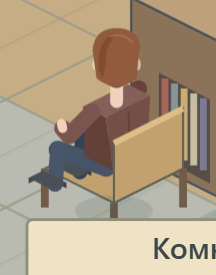
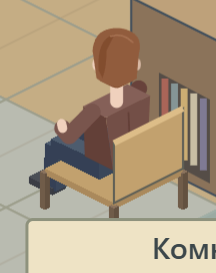
Occlude seated legs behind solid chair surfaces
Keep thighs above the seat and calves beyond its front edge. Use shared solid chair geometry to hide only leg surfaces behind the seat, supports and armrests. Retain visible legs in front. Add independent depth-sampling regressions and actual-scene pixel probes of the support in front of the boot. Silent checks: 62 model/geometry tests, 22 browser blocks and 8 seating blocks.

diff --git a/index.html b/index.html
@@ -1,2 +1,2 @@
 <!doctype html>
-<html lang="ru"><head><meta charset="utf-8"><meta name="viewport" content="width=device-width,initial-scale=1,viewport-fit=cover"><meta name="theme-color" content="#26383d"><title>НРИ / Клуб — Тайкун</title><link rel="icon" href="assets/dice.svg" type="image/svg+xml"><link rel="stylesheet" href="src/ui/studio.css?v=20261020-seating-v2"></head><body><div id="game" aria-busy="true"><main class="boot-error"><h1>Открываем клуб…</h1></main></div><script type="importmap">{"imports":{"./src/data/build-catalog.js":"./src/data/build-catalog.js?v=20261020-seating-v2","./src/data/catalog.js":"./src/data/catalog.js?v=20261020-seating-v2","./src/data/club-adventures.js":"./src/data/club-adventures.js?v=20261020-seating-v2","./src/data/club.js":"./src/data/club.js?v=20261020-seating-v2","./src/data/commerce.js":"./src/data/commerce.js?v=20261020-seating-v2","./src/data/identities.js":"./src/data/identities.js?v=20261020-seating-v2","./src/data/masters-market.js":"./src/data/masters-market.js?v=20261020-seating-v2","./src/data/operations-catalog.js":"./src/data/operations-catalog.js?v=20261020-seating-v2","./src/data/preferences.js":"./src/data/preferences.js?v=20261020-seating-v2","./src/data/systems.js":"./src/data/systems.js?v=20261020-seating-v2","./src/data/visuals.js":"./src/data/visuals.js?v=20261020-seating-v2","./src/model/assessment.js":"./src/model/assessment.js?v=20261020-seating-v2","./src/model/camera.js":"./src/model/camera.js?v=20261020-seating-v2","./src/model/campaign-construction.js":"./src/model/campaign-construction.js?v=20261020-seating-v2","./src/model/campaign-layout.js":"./src/model/campaign-layout.js?v=20261020-seating-v2","./src/model/campaign-rating.js":"./src/model/campaign-rating.js?v=20261020-seating-v2","./src/model/campaign-view.js":"./src/model/campaign-view.js?v=20261020-seating-v2","./src/model/campaign.js":"./src/model/campaign.js?v=20261020-seating-v2","./src/model/club.js":"./src/model/club.js?v=20261020-seating-v2","./src/model/construction.js":"./src/model/construction.js?v=20261020-seating-v2","./src/model/drag-geometry.js":"./src/model/drag-geometry.js?v=20261020-seating-v2","./src/model/event-clock.js":"./src/model/event-clock.js?v=20261020-seating-v2","./src/model/finance-breakdown.js":"./src/model/finance-breakdown.js?v=20261020-seating-v2","./src/model/finances.js":"./src/model/finances.js?v=20261020-seating-v2","./src/model/generator.js":"./src/model/generator.js?v=20261020-seating-v2","./src/model/guest-waiting.js":"./src/model/guest-waiting.js?v=20261020-seating-v2","./src/model/guests-history.js":"./src/model/guests-history.js?v=20261020-seating-v2","./src/model/inventory.js":"./src/model/inventory.js?v=20261020-seating-v2","./src/model/kit-lifecycle.js":"./src/model/kit-lifecycle.js?v=20261020-seating-v2","./src/model/layout-club.js":"./src/model/layout-club.js?v=20261020-seating-v2","./src/model/layout.js":"./src/model/layout.js?v=20261020-seating-v2","./src/model/lifecycle.js":"./src/model/lifecycle.js?v=20261020-seating-v2","./src/model/operations.js":"./src/model/operations.js?v=20261020-seating-v2","./src/model/preferences.js":"./src/model/preferences.js?v=20261020-seating-v2","./src/model/puppet.js":"./src/model/puppet.js?v=20261020-seating-v2","./src/model/rating.js":"./src/model/rating.js?v=20261020-seating-v2","./src/model/reception-area.js":"./src/model/reception-area.js?v=20261020-seating-v2","./src/model/reception.js":"./src/model/reception.js?v=20261020-seating-v2","./src/model/search.js":"./src/model/search.js?v=20261020-seating-v2","./src/model/service-staff.js":"./src/model/service-staff.js?v=20261020-seating-v2","./src/model/solvency.js":"./src/model/solvency.js?v=20261020-seating-v2","./src/model/staff-room.js":"./src/model/staff-room.js?v=20261020-seating-v2","./src/model/studio-building.js":"./src/model/studio-building.js?v=20261020-seating-v2","./src/model/upgrades.js":"./src/model/upgrades.js?v=20261020-seating-v2","./src/ui/app.js":"./src/ui/app.js?v=20261020-seating-v2","./src/ui/avatar-drag.js":"./src/ui/avatar-drag.js?v=20261020-seating-v2","./src/ui/build-mode.js":"./src/ui/build-mode.js?v=20261020-seating-v2","./src/ui/campaign-ui.js":"./src/ui/campaign-ui.js?v=20261020-seating-v2","./src/ui/character-clothes.js":"./src/ui/character-clothes.js?v=20261020-seating-v2","./src/ui/character-head.js":"./src/ui/character-head.js?v=20261020-seating-v2","./src/ui/game.js":"./src/ui/game.js?v=20261020-seating-v2","./src/ui/graphic-portrait.js":"./src/ui/graphic-portrait.js?v=20261020-seating-v2","./src/ui/guest-history-ui.js":"./src/ui/guest-history-ui.js?v=20261020-seating-v2","./src/ui/information.js":"./src/ui/information.js?v=20261020-seating-v2","./src/ui/layout-map.js":"./src/ui/layout-map.js?v=20261020-seating-v2","./src/ui/layout-projection.js":"./src/ui/layout-projection.js?v=20261020-seating-v2","./src/ui/map-labels.js":"./src/ui/map-labels.js?v=20261020-seating-v2","./src/ui/map-room-strip.js":"./src/ui/map-room-strip.js?v=20261020-seating-v2","./src/ui/map.js":"./src/ui/map.js?v=20261020-seating-v2","./src/ui/operations-ui.js":"./src/ui/operations-ui.js?v=20261020-seating-v2","./src/ui/people.js":"./src/ui/people.js?v=20261020-seating-v2","./src/ui/portrait.js":"./src/ui/portrait.js?v=20261020-seating-v2","./src/ui/reviews.js":"./src/ui/reviews.js?v=20261020-seating-v2","./src/ui/save-files.js":"./src/ui/save-files.js?v=20261020-seating-v2","./src/ui/save-store.js":"./src/ui/save-store.js?v=20261020-seating-v2","./src/ui/scene-geometry.js":"./src/ui/scene-geometry.js?v=20261020-seating-v2","./src/ui/seat-frame.js":"./src/ui/seat-frame.js?v=20261020-seating-v2","./src/ui/seated-person.js":"./src/ui/seated-person.js?v=20261020-seating-v2","./src/ui/studio.js":"./src/ui/studio.js?v=20261020-seating-v2","./src/ui/world.js":"./src/ui/world.js?v=20261020-seating-v2"}}</script><script type="module" src="src/ui/app.js?v=20261020-seating-v2"></script></body></html>
+<html lang="ru"><head><meta charset="utf-8"><meta name="viewport" content="width=device-width,initial-scale=1,viewport-fit=cover"><meta name="theme-color" content="#26383d"><title>НРИ / Клуб — Тайкун</title><link rel="icon" href="assets/dice.svg" type="image/svg+xml"><link rel="stylesheet" href="src/ui/studio.css?v=20261020-seat-occlusion-v3"></head><body><div id="game" aria-busy="true"><main class="boot-error"><h1>Открываем клуб…</h1></main></div><script type="importmap">{"imports":{"./src/data/build-catalog.js":"./src/data/build-catalog.js?v=20261020-seat-occlusion-v3","./src/data/catalog.js":"./src/data/catalog.js?v=20261020-seat-occlusion-v3","./src/data/club-adventures.js":"./src/data/club-adventures.js?v=20261020-seat-occlusion-v3","./src/data/club.js":"./src/data/club.js?v=20261020-seat-occlusion-v3","./src/data/commerce.js":"./src/data/commerce.js?v=20261020-seat-occlusion-v3","./src/data/identities.js":"./src/data/identities.js?v=20261020-seat-occlusion-v3","./src/data/masters-market.js":"./src/data/masters-market.js?v=20261020-seat-occlusion-v3","./src/data/operations-catalog.js":"./src/data/operations-catalog.js?v=20261020-seat-occlusion-v3","./src/data/preferences.js":"./src/data/preferences.js?v=20261020-seat-occlusion-v3","./src/data/systems.js":"./src/data/systems.js?v=20261020-seat-occlusion-v3","./src/data/visuals.js":"./src/data/visuals.js?v=20261020-seat-occlusion-v3","./src/model/assessment.js":"./src/model/assessment.js?v=20261020-seat-occlusion-v3","./src/model/camera.js":"./src/model/camera.js?v=20261020-seat-occlusion-v3","./src/model/campaign-construction.js":"./src/model/campaign-construction.js?v=20261020-seat-occlusion-v3","./src/model/campaign-layout.js":"./src/model/campaign-layout.js?v=20261020-seat-occlusion-v3","./src/model/campaign-rating.js":"./src/model/campaign-rating.js?v=20261020-seat-occlusion-v3","./src/model/campaign-view.js":"./src/model/campaign-view.js?v=20261020-seat-occlusion-v3","./src/model/campaign.js":"./src/model/campaign.js?v=20261020-seat-occlusion-v3","./src/model/club.js":"./src/model/club.js?v=20261020-seat-occlusion-v3","./src/model/construction.js":"./src/model/construction.js?v=20261020-seat-occlusion-v3","./src/model/drag-geometry.js":"./src/model/drag-geometry.js?v=20261020-seat-occlusion-v3","./src/model/event-clock.js":"./src/model/event-clock.js?v=20261020-seat-occlusion-v3","./src/model/finance-breakdown.js":"./src/model/finance-breakdown.js?v=20261020-seat-occlusion-v3","./src/model/finances.js":"./src/model/finances.js?v=20261020-seat-occlusion-v3","./src/model/generator.js":"./src/model/generator.js?v=20261020-seat-occlusion-v3","./src/model/guest-waiting.js":"./src/model/guest-waiting.js?v=20261020-seat-occlusion-v3","./src/model/guests-history.js":"./src/model/guests-history.js?v=20261020-seat-occlusion-v3","./src/model/inventory.js":"./src/model/inventory.js?v=20261020-seat-occlusion-v3","./src/model/kit-lifecycle.js":"./src/model/kit-lifecycle.js?v=20261020-seat-occlusion-v3","./src/model/layout-club.js":"./src/model/layout-club.js?v=20261020-seat-occlusion-v3","./src/model/layout.js":"./src/model/layout.js?v=20261020-seat-occlusion-v3","./src/model/lifecycle.js":"./src/model/lifecycle.js?v=20261020-seat-occlusion-v3","./src/model/operations.js":"./src/model/operations.js?v=20261020-seat-occlusion-v3","./src/model/preferences.js":"./src/model/preferences.js?v=20261020-seat-occlusion-v3","./src/model/puppet.js":"./src/model/puppet.js?v=20261020-seat-occlusion-v3","./src/model/rating.js":"./src/model/rating.js?v=20261020-seat-occlusion-v3","./src/model/reception-area.js":"./src/model/reception-area.js?v=20261020-seat-occlusion-v3","./src/model/reception.js":"./src/model/reception.js?v=20261020-seat-occlusion-v3","./src/model/search.js":"./src/model/search.js?v=20261020-seat-occlusion-v3","./src/model/service-staff.js":"./src/model/service-staff.js?v=20261020-seat-occlusion-v3","./src/model/solvency.js":"./src/model/solvency.js?v=20261020-seat-occlusion-v3","./src/model/staff-room.js":"./src/model/staff-room.js?v=20261020-seat-occlusion-v3","./src/model/studio-building.js":"./src/model/studio-building.js?v=20261020-seat-occlusion-v3","./src/model/upgrades.js":"./src/model/upgrades.js?v=20261020-seat-occlusion-v3","./src/ui/app.js":"./src/ui/app.js?v=20261020-seat-occlusion-v3","./src/ui/avatar-drag.js":"./src/ui/avatar-drag.js?v=20261020-seat-occlusion-v3","./src/ui/build-mode.js":"./src/ui/build-mode.js?v=20261020-seat-occlusion-v3","./src/ui/campaign-ui.js":"./src/ui/campaign-ui.js?v=20261020-seat-occlusion-v3","./src/ui/character-clothes.js":"./src/ui/character-clothes.js?v=20261020-seat-occlusion-v3","./src/ui/character-head.js":"./src/ui/character-head.js?v=20261020-seat-occlusion-v3","./src/ui/game.js":"./src/ui/game.js?v=20261020-seat-occlusion-v3","./src/ui/graphic-portrait.js":"./src/ui/graphic-portrait.js?v=20261020-seat-occlusion-v3","./src/ui/guest-history-ui.js":"./src/ui/guest-history-ui.js?v=20261020-seat-occlusion-v3","./src/ui/information.js":"./src/ui/information.js?v=20261020-seat-occlusion-v3","./src/ui/isometric-solids.js":"./src/ui/isometric-solids.js?v=20261020-seat-occlusion-v3","./src/ui/layout-map.js":"./src/ui/layout-map.js?v=20261020-seat-occlusion-v3","./src/ui/layout-projection.js":"./src/ui/layout-projection.js?v=20261020-seat-occlusion-v3","./src/ui/map-labels.js":"./src/ui/map-labels.js?v=20261020-seat-occlusion-v3","./src/ui/map-room-strip.js":"./src/ui/map-room-strip.js?v=20261020-seat-occlusion-v3","./src/ui/map.js":"./src/ui/map.js?v=20261020-seat-occlusion-v3","./src/ui/operations-ui.js":"./src/ui/operations-ui.js?v=20261020-seat-occlusion-v3","./src/ui/people.js":"./src/ui/people.js?v=20261020-seat-occlusion-v3","./src/ui/portrait.js":"./src/ui/portrait.js?v=20261020-seat-occlusion-v3","./src/ui/reviews.js":"./src/ui/reviews.js?v=20261020-seat-occlusion-v3","./src/ui/save-files.js":"./src/ui/save-files.js?v=20261020-seat-occlusion-v3","./src/ui/save-store.js":"./src/ui/save-store.js?v=20261020-seat-occlusion-v3","./src/ui/scene-geometry.js":"./src/ui/scene-geometry.js?v=20261020-seat-occlusion-v3","./src/ui/seat-frame.js":"./src/ui/seat-frame.js?v=20261020-seat-occlusion-v3","./src/ui/seat-solids.js":"./src/ui/seat-solids.js?v=20261020-seat-occlusion-v3","./src/ui/seated-person.js":"./src/ui/seated-person.js?v=20261020-seat-occlusion-v3","./src/ui/studio.js":"./src/ui/studio.js?v=20261020-seat-occlusion-v3","./src/ui/world.js":"./src/ui/world.js?v=20261020-seat-occlusion-v3"}}</script><script type="module" src="src/ui/app.js?v=20261020-seat-occlusion-v3"></script></body></html>

diff --git a/src/ui/world.js b/src/ui/world.js
@@ -7,6 +7,8 @@ import {receptionStatus} from '../model/reception-area.js';
 import {personArt,ADMINISTRATOR,escapeHTML as esc} from './people.js';
 import {seatFrame,SEAT_HEIGHT,project,unproject} from './seat-frame.js';
 import {seatedPersonArt} from './seated-person.js';
+import {solidArt} from './isometric-solids.js';
+import {chairBaseFaces} from './seat-solids.js';
 export {project,unproject,seatedPersonArt};
 
 
@@ -20,12 +22,10 @@ function box(x,y,w,h,height,top,side='#ac8b65'){
 }
 function chairParts(o){
  const cells=objectCells(o),w=Math.max(...cells.map(c=>c.x))-o.x+1,h=Math.max(...cells.map(c=>c.y))-o.y+1,cushioned=/Soft|Arms|Sofa|sofa/.test(o.kind),color=cushioned?'#66808a':'#c2a16e';
- const corners=diamond(o.x+.18,o.y+.18,w-.36,h-.36,SEAT_HEIGHT),ground=diamond(o.x+.18,o.y+.18,w-.36,h-.36,0);
- let base='';for(let i=0;i<4;i++)base+='<path d="M'+ground[i].x+' '+ground[i].y+'L'+corners[i].x+' '+corners[i].y+'" stroke="#705c4a" stroke-width="2.6"/>';
- base+=polygon(corners,color,'#5e665c');
+ const corners=diamond(o.x+.18,o.y+.18,w-.36,h-.36,SEAT_HEIGHT);
+ const center=project(o.x+w/2,o.y+h/2);let base='<g class="chair-base" transform="translate('+center.x+' '+center.y+')">'+solidArt(chairBaseFaces(w,h,o.kind,o.rotation))+'</g>';
  const index=seatFrame(o.rotation).backEdge,edges=[corners[index],corners[(index+1)%4]],top=[{x:edges[0].x,y:edges[0].y-20},{x:edges[1].x,y:edges[1].y-20}];
  const back=polygon([edges[0],top[0],top[1],edges[1]],color,'#5f6057')+'<path d="M'+top[0].x+' '+top[0].y+'L'+top[1].x+' '+top[1].y+'" stroke="'+(cushioned?'#91a39e':'#ddbd88')+'" stroke-width="2"/>';
- if(o.kind==='chairArms')for(const i of [(o.rotation+3)%4,(o.rotation+1)%4]){const a=corners[i],b=corners[(i+1)%4];base+='<path d="M'+a.x+' '+a.y+'v-7L'+b.x+' '+(b.y-7)+'V'+b.y+'" fill="none" stroke="#566b70" stroke-width="3"/>';}
  if(w*h>1)for(let i=1;i<Math.max(w,h);i++){const q=project(o.x+(w>h?i:.5),o.y+(h>w?i:.5),14);base+='<path d="M'+(q.x-7)+' '+q.y+'l14 7" stroke="#91a69d" stroke-width="1.2"/>';}
  return {base,back,front:seatFrame(o.rotation).backNear};
 }
@@ -138,8 +138,8 @@ export function createWorld(host,callbacks={}){
    for(const m of club.staff){const seat=staffSeatForMaster(club,m.id);if(!club.rooms.some(r=>r.status==='running'&&r.masterId===m.id)&&seat?.objectId===object.id)people.push({person:m,master:true,x:seat.x+.5,y:seat.y+.5});}
    if(people.length)art=furnitureArt(object,layout,{selected:state.objectId===object.id,occupied:true});
    for(const actor of people){const back=seatFrame(object.rotation).backNear;
-    Object.assign(actor,{key:(actor.master?'m:':'g:')+actor.person.id,seated:true,back,scale:1,walkScale:.62,z:0,seatRotation:object.rotation,target:object});actors.push(actor);const p=project(actor.x,actor.y,actor.z??0);
-    art+='<g data-actor="'+esc(actor.key)+'" data-seat-object="'+esc(object.id)+'" class="map-person '+(room?.status==='running'?'playing':'')+'" '+(actor.master?'data-master-id="':'data-guest-id="')+esc(actor.person.id)+'" transform="translate('+p.x+' '+p.y+') scale(1)"><title>'+esc(actor.person.profile?.name??actor.person.name)+'</title>'+seatedPersonArt(actor.person,{rotation:actor.seatRotation})+'</g>';
+    Object.assign(actor,{key:(actor.master?'m:':'g:')+actor.person.id,seated:true,back,scale:1,walkScale:.62,z:0,seatRotation:object.rotation,seatOptions:{rotation:object.rotation,kind:object.kind,width:Math.max(...cells.map(c=>c.x))-object.x+1,height:Math.max(...cells.map(c=>c.y))-object.y+1,offsetX:object.x+(Math.max(...cells.map(c=>c.x))-object.x+1)/2-actor.x,offsetY:object.y+(Math.max(...cells.map(c=>c.y))-object.y+1)/2-actor.y},target:object});actors.push(actor);const p=project(actor.x,actor.y,actor.z??0);
+    art+='<g data-actor="'+esc(actor.key)+'" data-seat-object="'+esc(object.id)+'" class="map-person '+(room?.status==='running'?'playing':'')+'" '+(actor.master?'data-master-id="':'data-guest-id="')+esc(actor.person.id)+'" transform="translate('+p.x+' '+p.y+') scale(1)"><title>'+esc(actor.person.profile?.name??actor.person.name)+'</title>'+seatedPersonArt(actor.person,actor.seatOptions)+'</g>';
    }
    if(people.length)art+=seatForeground(object);
    if(spec.family==='chair'&&object.role==='guest'&&!guest&&room?.status!=='running'){const p=project(object.x+.5,object.y+.5,19);art+='<g data-seat="'+esc(object.id)+'" class="empty-seat"><circle cx="'+p.x+'" cy="'+p.y+'" r="7" fill="#f4e9cc" stroke="#a28c64"/><path d="M'+(p.x-3)+' '+p.y+'h6M'+p.x+' '+(p.y-3)+'v6" stroke="#9a805c"/></g>';}
@@ -172,7 +172,7 @@ export function createWorld(host,callbacks={}){
   for(const key of positions.keys())if(!keys.has(key)){positions.delete(key);motions.delete(key);}
   function frame(time){for(const [key,motion]of motions){const node=scene.querySelector('[data-actor="'+CSS.escape(key)+'"]');if(!node){motions.delete(key);continue;}
     const t=Math.max(0,Math.min(1,(time-motion.start)/motion.duration)),actor=motion.actor;
-    if(t>=1){const p=project(actor.x,actor.y,actor.z??0);node.innerHTML=actor.seated&&actor.seatRotation!==undefined?seatedPersonArt(actor.person,{rotation:actor.seatRotation}):personArt(actor.person,{seated:actor.seated,back:actor.back});node.setAttribute('transform','translate('+p.x+' '+p.y+') scale('+actor.scale+')');node.classList.remove('is-walking');delete node.dataset.walking;motions.delete(key);continue;}
+    if(t>=1){const p=project(actor.x,actor.y,actor.z??0);node.innerHTML=actor.seated&&actor.seatRotation!==undefined?seatedPersonArt(actor.person,actor.seatOptions):personArt(actor.person,{seated:actor.seated,back:actor.back});node.setAttribute('transform','translate('+p.x+' '+p.y+') scale('+actor.scale+')');node.classList.remove('is-walking');delete node.dataset.walking;motions.delete(key);continue;}
     if(!node.dataset.walking){node.innerHTML=personArt(actor.person,{drag:true});node.dataset.walking='true';node.classList.add('is-walking');}
     const n=t*(motion.path.length-1),a=motion.path[Math.floor(n)],b=motion.path[Math.min(motion.path.length-1,Math.floor(n)+1)],k=n-Math.floor(n),p=project(a.x+(b.x-a.x)*k,a.y+(b.y-a.y)*k);
     node.setAttribute('transform','translate('+p.x+' '+(p.y-Math.sin(t*Math.PI*14)*.8)+') scale('+(actor.walkScale??actor.scale)+')');

diff --git a/src/ui/seated-person.js b/src/ui/seated-person.js
@@ -1,18 +1,29 @@
 import {seatFrame,SEAT_HEIGHT} from './seat-frame.js';
 import {personArt} from './people.js';
+import {prismFaces,solidArt} from './isometric-solids.js';
+import {chairBaseFaces} from './seat-solids.js';
 const paint=(value,fallback)=>/^#[\da-f]{6}$/i.test(value??'')?value:fallback;
 const shade=(hex,n)=>'#'+[1,3,5].map(i=>Math.max(0,Math.min(255,parseInt(hex.slice(i,i+2),16)+n)).toString(16).padStart(2,'0')).join('');
 const points=ps=>ps.map(p=>p.x+','+p.y).join(' ');
 const polygon=(ps,fill)=>'<polygon points="'+points(ps)+'" fill="'+fill+'"/>';
 const stroke=(ps,color,width)=>'<polyline points="'+points(ps)+'" fill="none" stroke="'+color+'" stroke-width="'+width+'" stroke-linecap="round" stroke-linejoin="round"/>';
 
-export function seatedPersonArt(person,{rotation=0}={}){
+export function seatedLegFaces(rotation=0,pants='#40515c',shoes='#303b42'){
+ const frame=seatFrame(rotation),faces=[];
+ const prism=(coords,colors,part)=>faces.push(...prismFaces(coords.map(v=>frame.world(...v)),colors,part));
+ for(const side of [-1,1]){
+  const u=side*.115,name=side<0?'left':'right',legColors=[shade(pants,-20),shade(pants,-12),pants,shade(pants,-8),shade(pants,-18),shade(pants,8)];
+  // Both ends of the thigh remain above the seat. The calf starts beyond
+  // the seat's front edge, so its bend cannot pass through the solid seat.
+  prism([[u-.065,-.045,SEAT_HEIGHT+.3],[u+.065,-.045,SEAT_HEIGHT+.3],[u+.065,.405,SEAT_HEIGHT+.3],[u-.065,.405,SEAT_HEIGHT+.3],[u-.065,-.045,SEAT_HEIGHT+6.3],[u+.065,-.045,SEAT_HEIGHT+6.3],[u+.065,.405,SEAT_HEIGHT+5.8],[u-.065,.405,SEAT_HEIGHT+5.8]],legColors,'thigh-'+name);
+  prism([[u-.055,.37,1.6],[u+.055,.37,1.6],[u+.055,.49,1.6],[u-.055,.49,1.6],[u-.055,.345,16.1],[u+.055,.345,16.1],[u+.055,.465,16.1],[u-.055,.465,16.1]],legColors,'calf-'+name);
+  prism([[u-.065,.39,.3],[u+.065,.39,.3],[u+.065,.61,.3],[u-.065,.61,.3],[u-.065,.39,2.5],[u+.065,.39,2.5],[u+.065,.61,2.5],[u-.065,.61,2.5]],[shoes,shade(shoes,-9),shoes,shoes,shade(shoes,-7),shade(shoes,11)],'shoe-'+name);
+ }return faces;
+}
+
+export function seatedPersonArt(person,{rotation=0,kind='chair',width=1,height=1,offsetX=0,offsetY=0}={}){
  const identity=person?.identity??person??{},look=identity.portrait??{},frame=seatFrame(rotation),P=frame.point,coat=paint(look.coat,'#6c7e80'),pants=paint(look.trousers,'#40515c'),shoes=paint(look.shoes,'#303b42'),skin=paint(look.skin,'#e3b79e'),accent=paint(look.accent,'#d8cab2');
- const rightNear=frame.right[0]+frame.right[1]>0,nearSide=rightNear?1:-1,leg=side=>{
-  const u=side*.115,hip=P(u,-.045,SEAT_HEIGHT+3.2),knee=P(u,.405,SEAT_HEIGHT+1),ankle=P(u,.43,2.1),front=side===nearSide;
-  const top=[P(u-.065,.39,2.1),P(u+.065,.39,2.1),P(u+.065,.61,2.1),P(u-.065,.61,2.1)],bottom=[P(u-.065,.39,.3),P(u+.065,.39,.3),P(u+.065,.61,.3),P(u-.065,.61,.3)];
-  return '<g class="seated-leg" data-leg="'+(side<0?'left':'right')+'">'+stroke([hip,knee],front?pants:shade(pants,-13),6.1)+stroke([knee,ankle],front?shade(pants,3):shade(pants,-16),5.1)+polygon([top[1],top[2],bottom[2],bottom[1]],shade(shoes,-7))+polygon([top[2],top[3],bottom[3],bottom[2]],shoes)+polygon(top,shade(shoes,11))+'</g>';
- };
+ const rightNear=frame.right[0]+frame.right[1]>0,nearSide=rightNear?1:-1,chair=chairBaseFaces(width,height,kind,rotation).map(f=>({...f,points:f.points.map(p=>({...p,x:p.x+offsetX,y:p.y+offsetY}))})),legs='<g class="seated-legs" data-chair-occlusion="solid-depth">'+solidArt(seatedLegFaces(rotation,pants,shoes),chair)+'</g>';
  const arm=side=>{
   const shoulder=P(side*.215,-.015,36),elbow=P(side*.265,.15,26),wrist=P(side*.185,.29,24.5),hand=P(side*.145,.34,24.5);
   return '<g class="seated-arm">'+stroke([shoulder,elbow,wrist],side===nearSide?coat:shade(coat,-18),5.6)+stroke([wrist,hand],skin,3.1)+'</g>';
@@ -28,5 +39,5 @@ export function seatedPersonArt(person,{rotation=0}={}){
  }
  const neck=stroke([P(0,-.025,35.8),P(0,-.025,42.5)],skin,4.3),head=P(0,-.025,49.5);
  const headArt='<g class="seated-head" data-head-view="'+(frame.backNear?'back':'three-quarter')+'" transform="translate('+head.x+' '+head.y+') scale('+(frame.headMirror*.67)+' .67)">'+personArt(person,{seated:true,headOnly:true,back:frame.backNear,yaw:1})+'</g>';
- return '<g class="seated-miniature" data-seat-facing="'+frame.direction+'" stroke-linecap="round" stroke-linejoin="round"><ellipse cy="1" rx="13" ry="5" fill="#243b38" opacity=".12"/>'+leg(-nearSide)+leg(nearSide)+arm(-nearSide)+torso+neck+arm(nearSide)+headArt+'</g>';
+ return '<g class="seated-miniature" data-seat-facing="'+frame.direction+'" stroke-linecap="round" stroke-linejoin="round">'+legs+arm(-nearSide)+torso+neck+arm(nearSide)+headArt+'</g>';
 }

diff --git a/src/ui/isometric-solids.js b/src/ui/isometric-solids.js
@@ -1,0 +1,36 @@
+import {project} from './seat-frame.js';
+const EPS=1e-7;
+const area=p=>p.reduce((s,a,i)=>{const b=p[(i+1)%p.length];return s+a.x*b.y-a.y*b.x;},0)/2;
+const bounds=p=>({left:Math.min(...p.map(v=>v.x)),right:Math.max(...p.map(v=>v.x)),top:Math.min(...p.map(v=>v.y)),bottom:Math.max(...p.map(v=>v.y))});
+function clip(p,value){
+ const result=[];for(let i=0;i<p.length;i++){const a=p[i],b=p[(i+1)%p.length],da=value(a),db=value(b);if(da>=-EPS)result.push(a);if((da>EPS&&db<-EPS)||(da<-EPS&&db>EPS)){const t=da/(da-db);result.push({x:a.x+(b.x-a.x)*t,y:a.y+(b.y-a.y)*t});}}return result;
+}
+function subtract(subject,occluder){
+ let inside=subject;const visible=[],sign=Math.sign(area(occluder));
+ for(let i=0;i<occluder.length&&inside.length>=3;i++){const a=occluder[i],b=occluder[(i+1)%occluder.length],distance=p=>sign*((b.x-a.x)*(p.y-a.y)-(b.y-a.y)*(p.x-a.x)),outside=clip(inside,p=>-distance(p));if(outside.length>=3&&Math.abs(area(outside))>EPS)visible.push(outside);inside=clip(inside,distance);}
+ return visible;
+}
+function projected(face){
+ const p=face.points.map(v=>({...project(v.x,v.y,v.z),depth:v.x+v.y}));if(Math.abs(area(p))<EPS)return null;
+ const [a,b,c]=p,det=(b.x-a.x)*(c.y-a.y)-(c.x-a.x)*(b.y-a.y),dx=((b.depth-a.depth)*(c.y-a.y)-(c.depth-a.depth)*(b.y-a.y))/det,dy=((b.x-a.x)*(c.depth-a.depth)-(c.x-a.x)*(b.depth-a.depth))/det;
+ return {...face,p,bounds:bounds(p),depth:v=>a.depth+dx*(v.x-a.x)+dy*(v.y-a.y)};
+}
+// Cut each face only where another solid is closer along the same view ray.
+// This preserves a leg in front of a chair, while hiding it behind a support.
+export function visibleSolidFaces(faces,occluders=[]){
+ const own=faces.map(projected).filter(Boolean),all=[...own,...occluders.map(projected).filter(Boolean)],result=[];
+ for(const face of own){let parts=[face.p];for(const other of all){if(other===face||other.bounds.left>face.bounds.right||other.bounds.right<face.bounds.left||other.bounds.top>face.bounds.bottom||other.bounds.bottom<face.bounds.top)continue;
+   const cover=clip(other.p,p=>other.depth(p)-face.depth(p)-1e-5);if(cover.length<3||Math.abs(area(cover))<EPS)continue;parts=parts.flatMap(p=>subtract(p,cover));if(!parts.length)break;
+  }for(const points of parts)result.push({points,fill:face.fill,part:face.part});
+ }return result;
+}
+export function solidArt(faces,occluders=[]){
+ const groups=new Map();for(const f of visibleSolidFaces(faces,occluders)){const key=f.part+f.fill,group=groups.get(key)??{part:f.part,fill:f.fill,paths:[]};group.paths.push('M'+f.points.map(p=>p.x.toFixed(5)+','+p.y.toFixed(5)).join('L')+'Z');groups.set(key,group);}
+ return [...groups.values()].map(g=>'<path'+(g.part?' data-solid-part="'+g.part+'"':'')+' d="'+g.paths.join('')+'" fill="'+g.fill+'" shape-rendering="crispEdges"/>').join('');
+}
+export function prismFaces(vertices,colors,part=''){
+ return [[0,3,2,1],[0,1,5,4],[1,2,6,5],[2,3,7,6],[3,0,4,7],[4,5,6,7]].map((indices,i)=>({points:indices.map(n=>vertices[n]),fill:colors[i]??colors[0],part}));
+}
+export function boxFaces(x0,y0,z0,x1,y1,z1,colors,part=''){
+ return prismFaces([[x0,y0,z0],[x1,y0,z0],[x1,y1,z0],[x0,y1,z0],[x0,y0,z1],[x1,y0,z1],[x1,y1,z1],[x0,y1,z1]].map(([x,y,z])=>({x,y,z})),colors,part);
+}

diff --git a/src/ui/seat-solids.js b/src/ui/seat-solids.js
@@ -1,0 +1,13 @@
+import {SEAT_HEIGHT,seatFrame} from './seat-frame.js';
+import {boxFaces,prismFaces} from './isometric-solids.js';
+export function chairBaseFaces(width=1,height=1,kind='chair',rotation=0){
+ const x0=-width/2+.18,x1=width/2-.18,y0=-height/2+.18,y1=height/2-.18,cushioned=/Soft|Arms|Sofa|sofa/.test(kind),top=cushioned?'#66808a':'#c2a16e',side=cushioned?'#536b74':'#aa895b';
+ const faces=boxFaces(x0,y0,SEAT_HEIGHT-2.2,x1,y1,SEAT_HEIGHT,[side,side,side,side,side,top],'seat');
+ for(const [x,y]of [[x0,y0],[x1,y0],[x1,y1],[x0,y1]])faces.push(...boxFaces(x-.022,y-.022,0,x+.022,y+.022,SEAT_HEIGHT-1,['#5e4d3e','#705c4a','#635140','#705c4a','#806953','#8b735d'],'support'));
+ if(kind==='chairArms'){
+  const frame=seatFrame(rotation);for(const side of [-1,1]){
+   const vertices=[];for(const z of [SEAT_HEIGHT+5.5,SEAT_HEIGHT+7.5])for(const [u,v]of [[side*.32-.025,-.32],[side*.32+.025,-.32],[side*.32+.025,.32],[side*.32-.025,.32]])vertices.push(frame.world(u,v,z));
+   faces.push(...prismFaces(vertices,['#4c6268','#566b70','#566b70','#566b70','#566b70','#70878a'],'armrest'));
+  }
+ }return faces;
+}

diff --git a/src/ui/seat-frame.js b/src/ui/seat-frame.js
@@ -5,5 +5,6 @@ export const unproject=(x,y)=>({x:x/72+y/36,y:y/36-x/72});
 export const SEAT_HEIGHT=13;
 export function seatFrame(rotation=0){
  const index=((rotation%4)+4)%4,forward=[[0,-1],[1,0],[0,1],[-1,0]][index],right=[-forward[1],forward[0]];
- return {rotation:index,forward,right,direction:['north','east','south','west'][index],backEdge:(index+2)%4,backNear:index===0||index===3,headMirror:index<2?1:-1,point:(u,v,z)=>project(right[0]*u+forward[0]*v,right[1]*u+forward[1]*v,z)};
+ const world=(u,v,z)=>({x:right[0]*u+forward[0]*v,y:right[1]*u+forward[1]*v,z});
+ return {rotation:index,forward,right,direction:['north','east','south','west'][index],backEdge:(index+2)%4,backNear:index===0||index===3,headMirror:index<2?1:-1,world,point:(u,v,z)=>{const p=world(u,v,z);return project(p.x,p.y,p.z);}};
 }

diff --git a/docs/SEATING-FIX.md b/docs/SEATING-FIX.md
@@ -1,13 +1,13 @@
 # Посадка мастера по геометрии стула
 
-На присланном снимке мастер в комнате отдыха действительно смотрел в сторону, противоположную стулу. Предыдущая проверка отдельной иллюстрации не подтверждала правильную посадку в настоящей комнате.
+На первом присланном снимке мастер в комнате отдыха смотрел в сторону, противоположную стулу. Первое исправление поворота пропустило ещё один дефект: бедро местами заходило ниже сиденья, а нога рисовалась поверх опор стула. Предыдущей визуальной проверки было недостаточно.
 
-Сидящая фигурка теперь строится в системе координат самого стула: общие направление, высота сиденья и положение спинки. Корпус, бёдра, колени, ступни и голова поворачиваются вместе. Для ближайшей к камере спинки её передний слой перекрывает спину фигурки. Точка посадки находится в центре реального стула; отдельное смещение плоской фигурки больше не используется. Это применяется к мастерам и гостям на игровых стульях и к мастерам на местах отдыха, включая завершение анимации ходьбы.
+Сидящая фигурка строится в системе координат стула. Бёдра теперь целиком находятся выше сиденья, голени начинаются за его передним краем. Сиденье имеет толщину, опоры и ноги персонажа — объёмную геометрию. Видимые участки ног вычисляются по глубине относительно той же геометрии, которой нарисован стул: опора закрывает ботинок за ней, а расположенная перед стулом нога остаётся видимой. Это применяется к мастерам и гостям на игровых стульях и к мастерам на местах отдыха, включая завершение анимации ходьбы. Для скамьи учитываются её размеры и положение конкретного места.
 
-Проверка настоящей игровой сцены прошла от отдыха к партии и обратно, со сменой панелей и перезагрузкой сохранения. Крупный план захватывает целиком человека и его стул. Дополнительно просмотрены четыре направления для четырёх видов стула. Проверки выполнены без звука, с изолированным сохранением и завершением всех принадлежащих запуску процессов.
+Проверка настоящей игровой сцены прошла от отдыха к партии и обратно, со сменой панелей и перезагрузкой сохранения. Дополнительно проверены пиксели опоры на реальной SVG-сцене с человеком и без него: в трёх внутренних точках цвет совпадает, непрозрачность — 255. Ноги при этом остаются видимыми за пределами опоры. Независимая проверка глубины исследует перекрывающиеся поверхности во всех четырёх поворотах. Просмотрены четыре направления для четырёх видов стула. Проверки выполнены без звука, с изолированным сохранением и завершением всех принадлежащих запуску процессов.
 
-- [7 блоков проверки посадки](seating-evidence/report.json)
-- [60 проверок модели](seating-evidence/model.json)
+- [8 блоков проверки посадки](seating-evidence/report.json)
+- [62 проверки модели и геометрии](seating-evidence/model.json)
 - [22 блока проверки игрового интерфейса](seating-evidence/browser.json)
 
 Обычный запуск Chromium был отклонён Windows с кодом доступа `0xC0000022`. Браузерные проверки выполнены разрешённым запуском через `Run-QuietGameCheck.ps1`, с включённой песочницей Chromium и принудительной тишиной.
